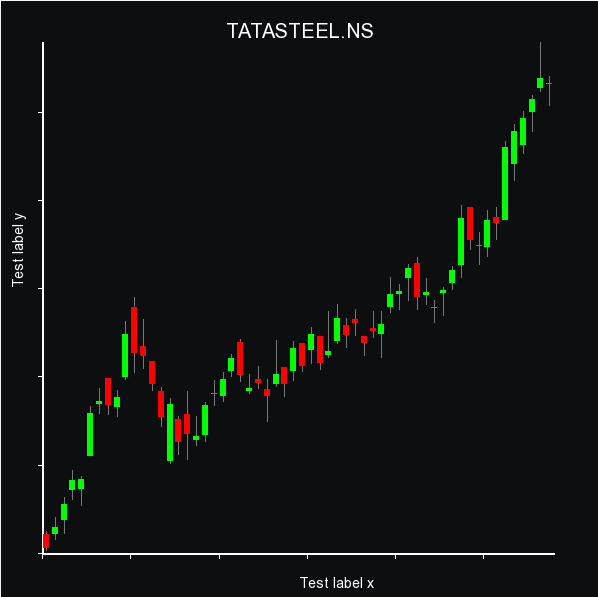
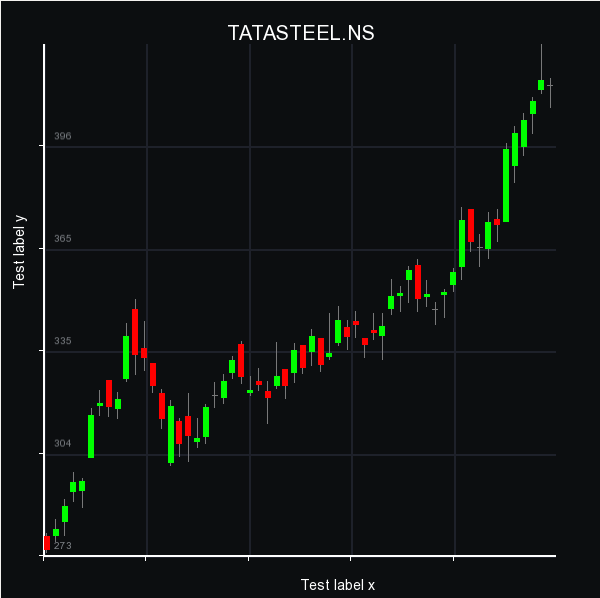
add grid lines and y div labels

diff --git a/src/plotter.cpp b/src/plotter.cpp
@@ -1,5 +1,7 @@
 #include "../include/plotter.h"
-// TODO: pause when off focus
+// TODO: show horizontal grid lines
+// TODO: show vertical grid lines
+// TODO: fix the number of divisions on the axes lines to 5 each
 
 Plotter::Plotter() : _window(sf::RenderWindow(sf::VideoMode(PARAMS::WINDOW_SIZE_X,\
 				PARAMS::WINDOW_SIZE_Y), "plot", sf::Style::Close)) {
@@ -61,12 +63,48 @@ void Plotter::genPlot(const std::string param){
 	std::vector<sf::RectangleShape> div = createDivisions(param);
 	std::vector<sf::Text> labels = createLabels();
 	sf::Text title = createTitle();
+	std::vector<sf::RectangleShape> gridLines = createGridLines();
 
 	if(param.compare("ohlc") == 0){
 		gatherAdditionalInfo(param);
+		std::vector<sf::Text> yDivText = getYDivisionLabels();
 		std::vector<Candlestick> candlesticks = getCandlesticks();
-		display(axes, labels, title, div, candlesticks);
+		display(gridLines, axes, yDivText, labels, title, div, candlesticks);
 	}
+}
+
+std::vector<sf::Text> Plotter::getYDivisionLabels() const{
+	std::vector<sf::Text> v;
+	for(unsigned i = 0; i < PARAMS::NUM_DIVS_Y; ++i){
+		v.push_back(sf::Text());
+		v.back().setFont(_font);
+		v.back().setString(std::to_string(int(_ymin + i*(_ymax - _ymin)/PARAMS::NUM_DIVS_Y)));
+		v.back().setFillColor(sf::Color(124,128,133));
+		v.back().setCharacterSize(PARAMS::DIV_TEXT_SIZE_X);
+		v.back().setOrigin(sf::Vector2f(0, v.back().getLocalBounds().height + PARAMS::OFFSET_Y/2));
+		v.back().setPosition(sf::Vector2f(getOrigin().x + PARAMS::OFFSET_X/2 , getOrigin().y - i*_yScaleFactor));
+	}
+	return v;
+}
+
+std::vector<sf::RectangleShape> Plotter::createGridLines() const{
+	std::vector<sf::RectangleShape> v;	
+	/* for horizontal lines */
+	Pos origin = getOrigin();
+	for(unsigned i = 0; i < PARAMS::NUM_DIVS_Y; ++i){
+		v.push_back(sf::RectangleShape());
+		v.back().setPosition(origin.x, origin.y - i*_yScaleFactor);
+		v.back().setFillColor(sf::Color(30,33,42));
+		v.back().setSize(sf::Vector2f(getAxesLength().x, 2));
+	}
+
+	for(unsigned i = 0; i < PARAMS::NUM_DIVS_X; ++i){
+		v.push_back(sf::RectangleShape());
+		v.back().setPosition(origin.x + i*_xScaleFactor, origin.y);
+		v.back().setFillColor(sf::Color(30,33,42));
+		v.back().setSize(sf::Vector2f(2, -getAxesLength().y));
+	}
+	return v;
 }
 
 void Plotter::gatherAdditionalInfo(const std::string &param){
@@ -104,7 +142,7 @@ std::vector<Candlestick> Plotter::getCandlesticks(){
 	for( unsigned i = 0; i < _xData.size(); ++i){
 		double yPixelLoc = getOrigin().y -  _pixelScaleMultiplier * (_yData[i][1] - _ymin); // data high passed bc bounding box origin is at top-left.
 		v.push_back(Candlestick(_yData[i][0], _yData[i][1], _yData[i][2],\
-					_yData[i][3], _font, Pos(getOrigin().x + i*_xScaleFactor , yPixelLoc), getOrigin(), _pixelScaleMultiplier));
+					_yData[i][3], _font, Pos(getOrigin().x + i*getAxesLength().x/_xData.size() , yPixelLoc), getOrigin(), _pixelScaleMultiplier));
 	}
 	return v;
 }	
@@ -147,21 +185,17 @@ std::vector<sf::RectangleShape> Plotter::createDivisions(const std::string &para
 	std::vector<sf::RectangleShape> v;
 	/* x divisions */
 	for(unsigned i = 0; i*_xScaleFactor < getAxesLength().x; ++i){
-		if (i%10 == 0){
-			v.push_back(sf::RectangleShape());
-			v.back().setSize(sf::Vector2f(PARAMS::DIV_SIZE_X,1));
-			v.back().setPosition(getOrigin().x + i*_xScaleFactor, getOrigin().y);
-			v.back().setRotation(90.0);
-		}
+		v.push_back(sf::RectangleShape());
+		v.back().setSize(sf::Vector2f(PARAMS::DIV_SIZE_X,1));
+		v.back().setPosition(getOrigin().x + i*_xScaleFactor, getOrigin().y);
+		v.back().setRotation(90.0);
 	};
 	/* y divisions */
 	for(unsigned i = 0; i*_yScaleFactor < getAxesLength().y; ++i){
-		if (i%10 == 0){
-			v.push_back(sf::RectangleShape());
-			v.back().setSize(sf::Vector2f(PARAMS::DIV_SIZE_Y,1));
-			v.back().setPosition(getOrigin().x, getOrigin().y - i*_yScaleFactor);
-			v.back().setRotation(180.0);
-		}
+		v.push_back(sf::RectangleShape());
+		v.back().setSize(sf::Vector2f(PARAMS::DIV_SIZE_Y,1));
+		v.back().setPosition(getOrigin().x, getOrigin().y - i*_yScaleFactor);
+		v.back().setRotation(180.0);
 	};
 	return v;
 }
@@ -169,8 +203,8 @@ std::vector<sf::RectangleShape> Plotter::createDivisions(const std::string &para
 void Plotter::calculateScaleFactor( const std::string &param){
 	if (param.compare("ohlc") == 0){ // calculate scalefactor for candlesticks case
 		std::cout << "Hello";
-		_xScaleFactor = getAxesLength().x / _xData.size();
-		_yScaleFactor = getAxesLength().y / _yData.size();
+		_xScaleFactor = getAxesLength().x / PARAMS::NUM_DIVS_X; // fix the number of divisions on each axes to 10
+		_yScaleFactor = getAxesLength().y / PARAMS::NUM_DIVS_Y;
 		
 	}
 }
@@ -197,8 +231,10 @@ sf::Text Plotter::createTitle(){
 	t.setPosition( sf::Vector2f(PARAMS::WINDOW_SIZE_X/2 - t.getLocalBounds().width/2, PARAMS::OFFSET_Y ) );
 	return t;
 }
-void Plotter::display(const std::vector<sf::RectangleShape> &axes, const std::vector<sf::Text> &labels,\
-		const sf::Text &title, const std::vector<sf::RectangleShape> &div, const std::vector<Candlestick> &cs){
+void Plotter::display(const std::vector<sf::RectangleShape> gridLines, const std::vector<sf::RectangleShape> &axes,\
+		const std::vector<sf::Text> yDivText, const std::vector<sf::Text> &labels, const sf::Text &title,\
+		const std::vector<sf::RectangleShape> &div,\
+		const std::vector<Candlestick> &cs){
 	_window.setPosition(
 			sf::Vector2i(
 				int( sf::VideoMode::getDesktopMode().width/2 - PARAMS::WINDOW_SIZE_X/2 ), 
@@ -215,6 +251,9 @@ void Plotter::display(const std::vector<sf::RectangleShape> &axes, const std::ve
 				_window.close();
 		}
 		_window.clear(sf::Color(12,14,16));
+		for(unsigned i = 0; i < gridLines.size(); ++i){
+			_window.draw(gridLines[i]);
+		}
 		_window.draw(axes[0]);
 		_window.draw(axes[1]);
 		for(unsigned i = 0; i < div.size(); ++i)
@@ -222,6 +261,10 @@ void Plotter::display(const std::vector<sf::RectangleShape> &axes, const std::ve
 		for(unsigned i = 0; i < cs.size(); ++i){
 			_window.draw(cs[i].getWick());
 			_window.draw(cs[i].getBody());
+		}
+
+		for(unsigned i = 0; i < yDivText.size(); ++i){
+			_window.draw(yDivText[i]);
 		}
 		_window.draw(labels[0]);
 		_window.draw(labels[1]);

diff --git a/include/params.h b/include/params.h
@@ -1,21 +1,22 @@
 #pragma once 
 
 namespace PARAMS{
-	const unsigned WINDOW_SIZE_X = 600;
-	const unsigned WINDOW_SIZE_Y = 600;
+	const float WINDOW_SIZE_X = 600; 
+	const float WINDOW_SIZE_Y = 600;
 	const unsigned FRAME_LIMIT = 2;
-	const unsigned OFFSET_X = 20; // away from the window borders
-	const unsigned OFFSET_Y = 20; // away from the window borders
+	const float OFFSET_X = 20; // away from the window borders
+	const float OFFSET_Y = 20; // away from the window borders
 	const unsigned LABEL_SIZE_X = 14;
 	const unsigned LABEL_SIZE_Y = 14;
-	const unsigned TITLE_SIZE = 20;
-	const float DIV_SIZE_X = 5.0;
-	const float DIV_SIZE_Y = 5.0;
+	const float TITLE_SIZE = 20;
+	const float DIV_SIZE_X = 5.0 * WINDOW_SIZE_X / 600;
+	const float DIV_SIZE_Y = 5.0 * WINDOW_SIZE_Y / 600;
+	const float NUM_DIVS_X = 5;
+	const float NUM_DIVS_Y = 5;
 	const unsigned DIV_TEXT_SIZE_X = 10;
 	const unsigned DIV_TEXT_SIZE_Y = 10;
-
 	const unsigned CANDLESTICK_FONT_SIZE = 8;
-	const unsigned CANDLESTICK_BODY_WIDTH = 6;
-	const unsigned CANDLESTICK_WICK_WIDTH = 1;
+	const float CANDLESTICK_BODY_WIDTH = WINDOW_SIZE_X/100;
+	const float CANDLESTICK_WICK_WIDTH = WINDOW_SIZE_X/600;
 }
 

diff --git a/include/plotter.h b/include/plotter.h
@@ -44,6 +44,8 @@ class Plotter{
 		double getMaximumYData() const;
 		double getMinimumYData() const;
 		void gatherAdditionalInfo(const std::string &param);
+		std::vector<sf::RectangleShape> createGridLines() const;
+		std::vector<sf::Text> getYDivisionLabels() const;
 		std::vector<sf::RectangleShape> createAxes();
 		Pos getOrigin() const;
 		AxesLength getAxesLength() const;
@@ -53,6 +55,8 @@ class Plotter{
 		sf::Text createTitle();
 		std::vector<Candlestick> getCandlesticks();
 		double getPixelSizeMultiplier();
-		void display(const std::vector<sf::RectangleShape> &axes, const std::vector<sf::Text> &labels,\
-			const sf::Text &title, const std::vector<sf::RectangleShape> &div, const std::vector<Candlestick> &cs);
+		void display(const std::vector<sf::RectangleShape> gridLines, const std::vector<sf::RectangleShape> &axes,\
+				const std::vector<sf::Text> yDivText, const std::vector<sf::Text> &labels, const sf::Text &title,\
+				const std::vector<sf::RectangleShape> &div,\
+				const std::vector<Candlestick> &cs);
 };

diff --git a/src/candlestick.cpp b/src/candlestick.cpp
@@ -26,7 +26,7 @@ void Candlestick::createBody(const Pos &pos, const Pos &origin, const double &pi
 	}
 }
 void Candlestick::createWick(const Pos &pos, const Pos &origin, const double &pixelScaleMultiplier){
-	_wick.setPosition(pos.x + PARAMS::CANDLESTICK_BODY_WIDTH/2 , pos.y);
+	_wick.setPosition(pos.x + PARAMS::CANDLESTICK_BODY_WIDTH/2 - PARAMS::CANDLESTICK_WICK_WIDTH/2 , pos.y);
 	double wickHeight = fmax(pixelScaleMultiplier * abs(_high - _low), 1);
 	_wick.setSize(sf::Vector2f(PARAMS::CANDLESTICK_WICK_WIDTH, wickHeight));
 	_wick.setFillColor(sf::Color(120,120,121));

diff --git a/include/position.h b/include/position.h
@@ -1,7 +1,7 @@
 #pragma once
 struct Position{
 	float x, y;
-	Position() {}
+	Position() : x(0), y(0) {}
 	Position(float valX, float valY) : x(valX), y(valY) {}
 };
 
